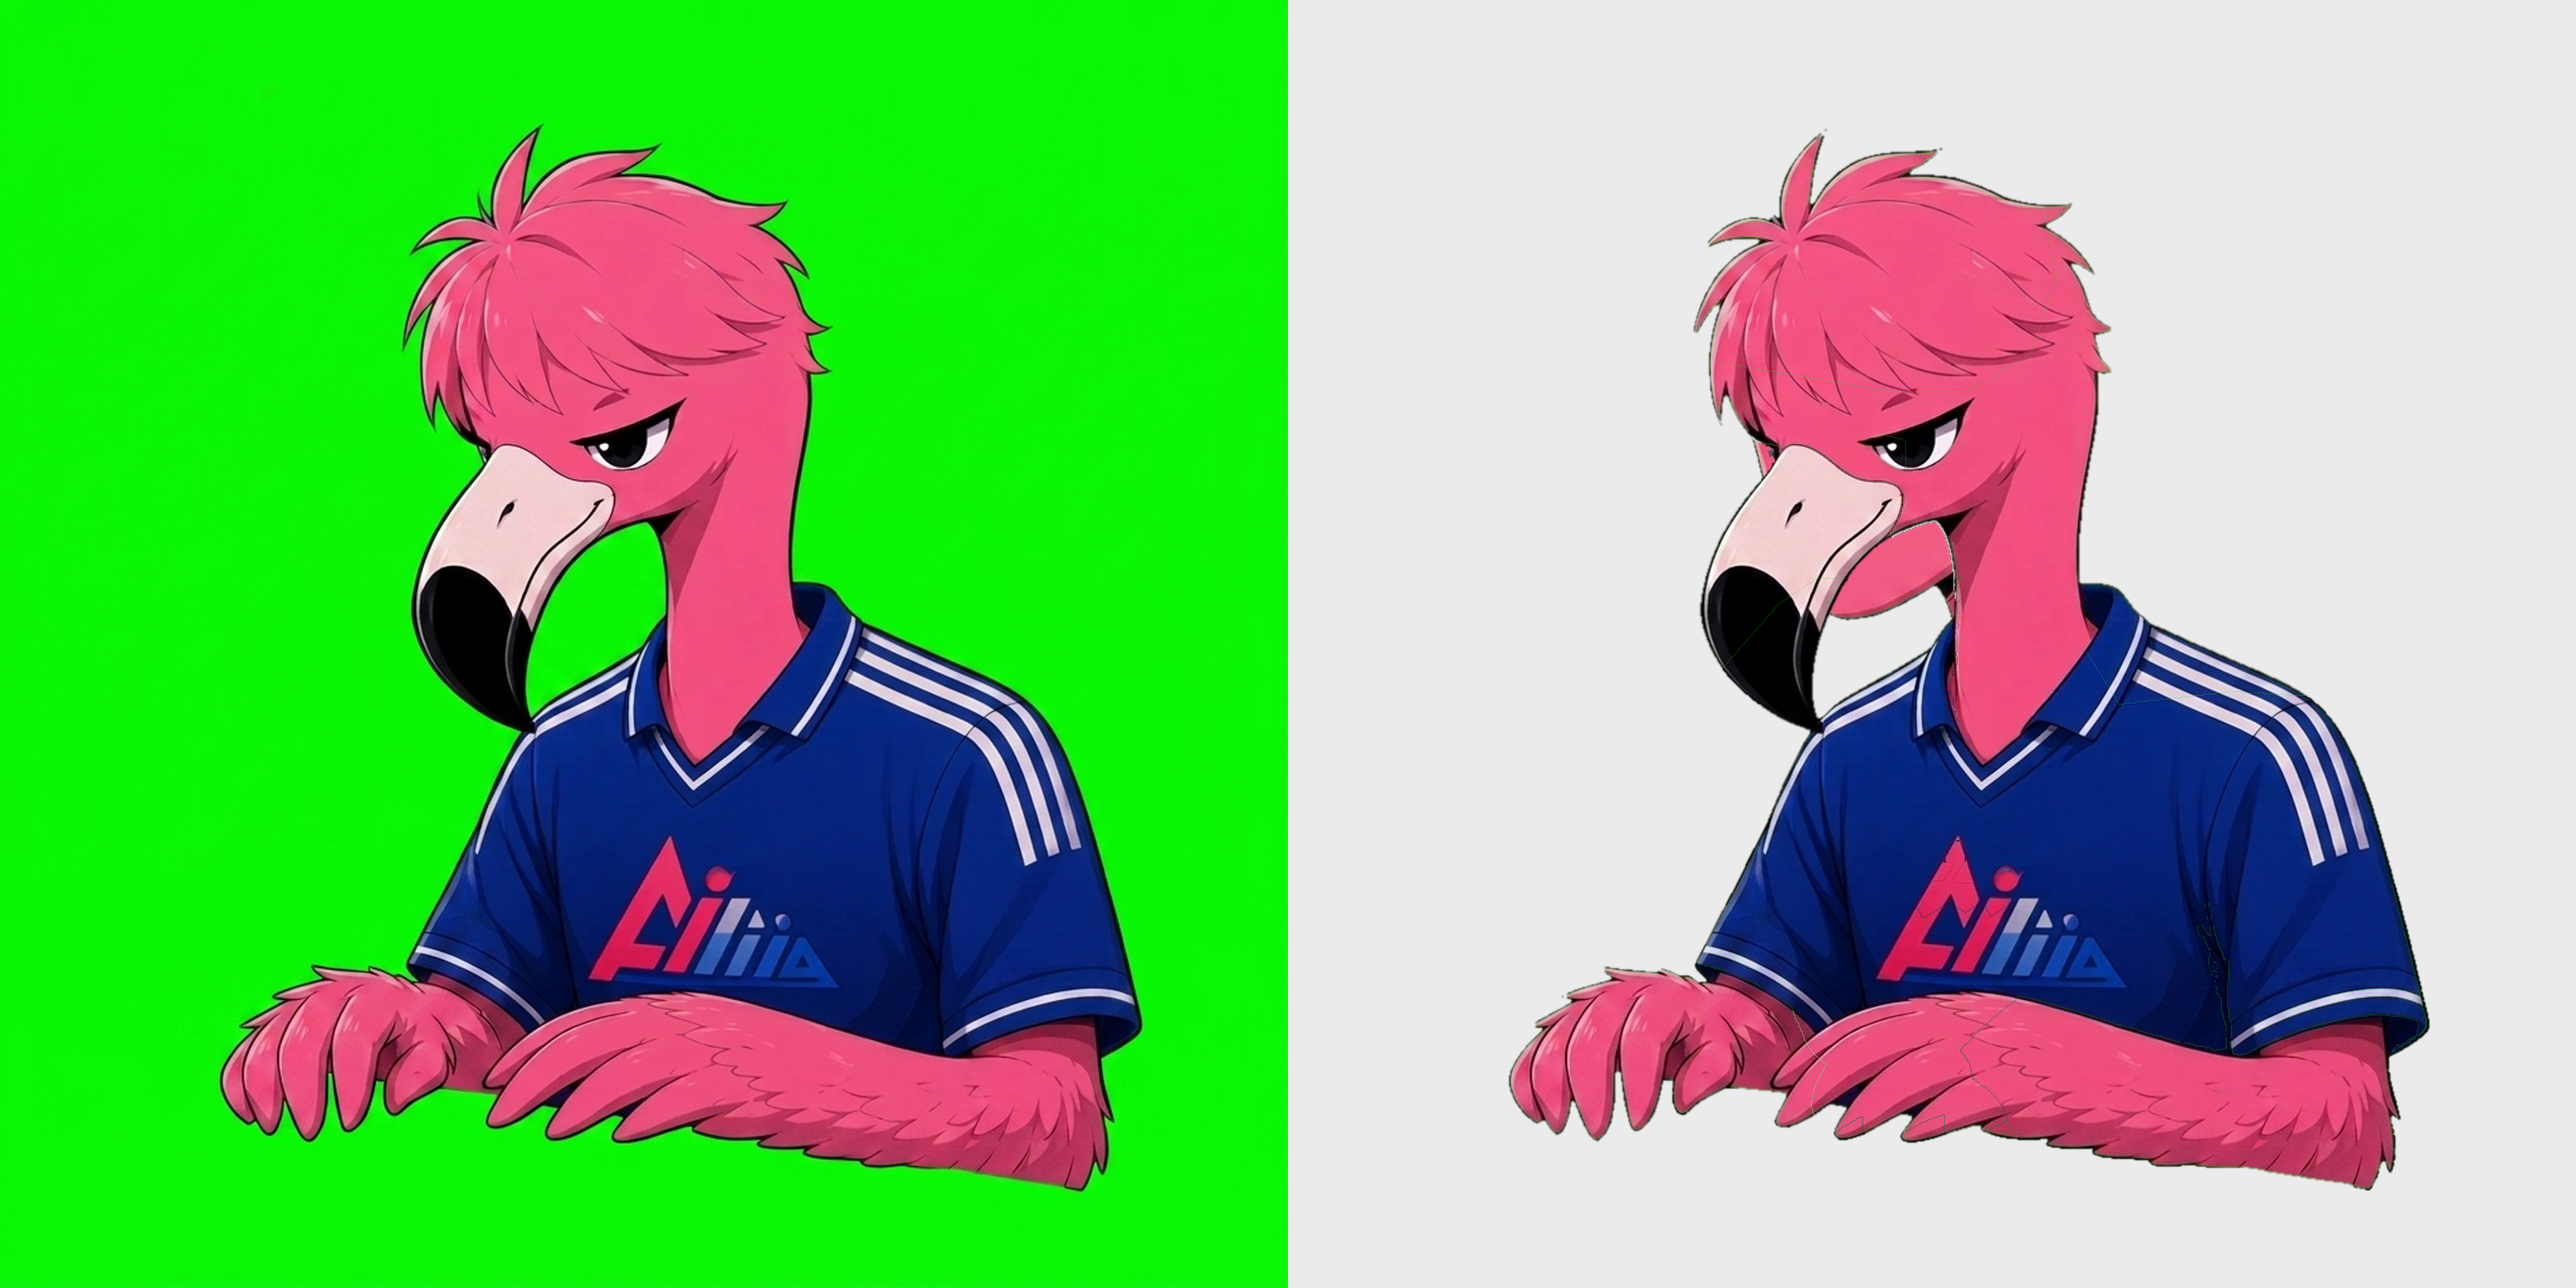
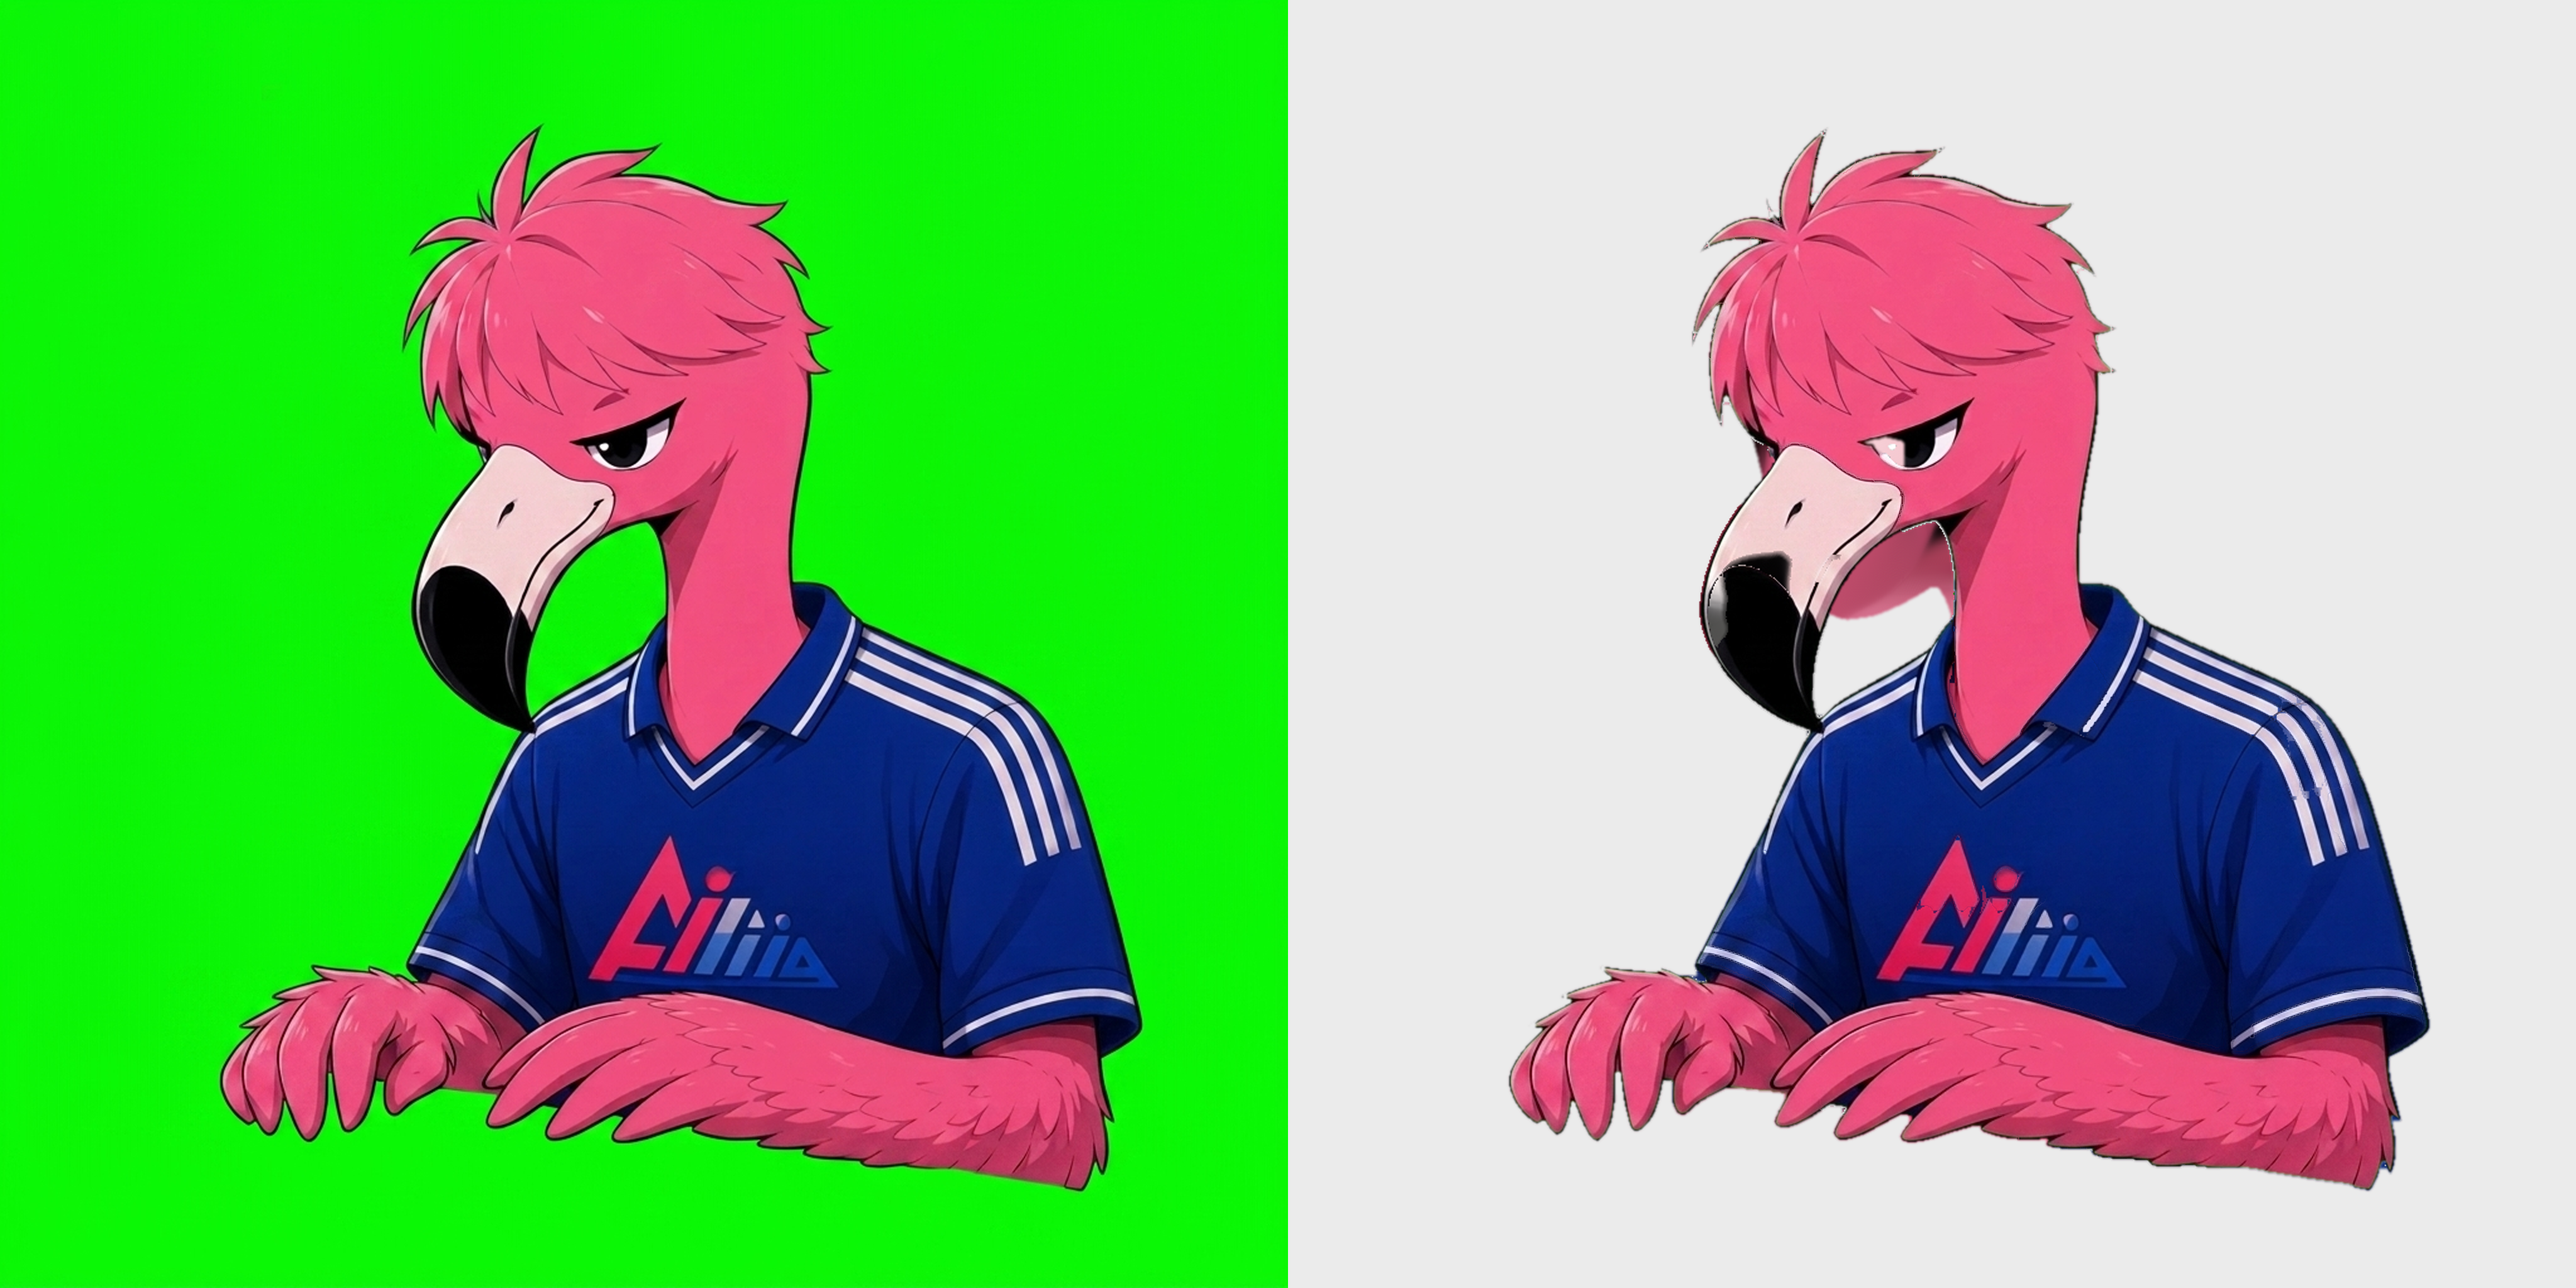
parts_v3: AI 픽셀 완전 제거 — 원본 직접 크롭 + 프로그램 인페인팅
- make_parts_v3.py: v2 AI 파츠는 영역 지도로만 사용, 픽셀은 전부 원본에서
- 배타적 픽셀 소유권: 눈·아랫부리·앞머리·팔 z-순서 강제 선점,
  머리/몸통 경계는 시드+최근접 거리 중재, 남는 픽셀(부리끝·발톱)도 최근접 귀속
- 가려진 영역은 cv2.inpaint(TELEA)로 재구성 (타 파츠·배경 인접 픽셀 소스 차단)
- 입안은 아랫부리 회전 스윕으로 합성 (talk 이미지 의존 제거)
- 레이어 순서 수정: 부리 끝이 가슴 위에 뜨는 포즈라 부리 > 몸통
- 정지 합성 residual 0px = 원본과 픽셀 일치

diff --git a/live2d/make_parts_v3.py b/live2d/make_parts_v3.py
@@ -1,0 +1,124 @@
+"""Build parts_v3: pure crops from the ORIGINAL sprite.
+
+The v2 AI parts are used ONLY as region maps (which pixel belongs to which
+part). Each original pixel is assigned to exactly ONE part (front-most part
+wins); occluded areas are reconstructed with OpenCV inpainting from the part's
+own pixels — no AI-painted pixel survives.
+"""
+import os
+import numpy as np
+import cv2
+from PIL import Image
+
+BASE = os.path.dirname(os.path.abspath(__file__))
+V2 = os.path.join(BASE, "parts_v2")
+V3 = os.path.join(BASE, "parts_v3")
+ORIGINAL = os.path.join(BASE, "..", "assets", "1_green_idle.png")
+DIFF_THRESH = 40
+
+os.makedirs(V3, exist_ok=True)
+
+def degreen(arr):
+    r, g, b = arr[:, :, 0].astype(int), arr[:, :, 1].astype(int), arr[:, :, 2].astype(int)
+    out = arr.copy()
+    out[:, :, 3] = np.where((g > 120) & (g > r + 25) & (g > b + 25), 0, arr[:, :, 3])
+    return out
+
+orig = degreen(np.array(Image.open(ORIGINAL).convert("RGBA")))
+orig_rgb = orig[:, :, :3]
+orig_alpha = orig[:, :, 3] > 0
+
+PARTS = ["upper_beak", "lower_beak", "hair_front", "left_arm", "right_arm",
+         "body_base", "head_base"]
+
+regions, claims = {}, {}
+for name in PARTS:
+    v2 = degreen(np.array(Image.open(os.path.join(V2, f"{name}.png")).convert("RGBA")))
+    region = cv2.morphologyEx((v2[:, :, 3] > 0).astype(np.uint8), cv2.MORPH_CLOSE,
+                              np.ones((5, 5), np.uint8)) > 0
+    diff = np.abs(v2[:, :, :3].astype(int) - orig_rgb.astype(int)).mean(axis=2)
+    claim = region & orig_alpha & (diff < DIFF_THRESH)
+    claim = cv2.morphologyEx(claim.astype(np.uint8), cv2.MORPH_CLOSE,
+                             np.ones((5, 5), np.uint8)) > 0
+    regions[name], claims[name] = region, claim
+
+# --- exclusive pixel ownership ---
+taken = np.zeros_like(orig_alpha)
+owned = {name: np.zeros_like(orig_alpha) for name in PARTS}
+
+# z-order forced claims: front parts own the pixels they show at rest.
+# eye first (belongs to the eye layers; head inpaints feathers behind it),
+# then lower jaw before upper_beak (whose v2 region covers the whole beak).
+eye = np.array(Image.open(os.path.join(V3, "eye_open.png")).convert("RGBA"))
+eye_region = cv2.dilate((eye[:, :, 3] > 40).astype(np.uint8), np.ones((3, 3), np.uint8)) > 0
+taken |= eye_region
+for name in ["lower_beak", "upper_beak", "hair_front", "left_arm", "right_arm"]:
+    owned[name] = claims[name] & ~taken
+    taken |= owned[name]
+
+# head/body claims are unreliable (v2 copied stray original pixels into both),
+# so only conservative seeds are trusted; every remaining original pixel is
+# then assigned to whichever part's owned area is nearest (beak tip -> beak,
+# claws -> arm, neck -> head, jersey -> body)
+r, g, b = orig_rgb[:, :, 0].astype(int), orig_rgb[:, :, 1].astype(int), orig_rgb[:, :, 2].astype(int)
+lum = r * 0.3 + g * 0.59 + b * 0.11
+jersey_color = ((b > g + 20) & (b > r)) | (lum > 185)  # navy or white stripes
+seed_head = claims["head_base"] & ~claims["body_base"] & ~taken
+seed_body = claims["body_base"] & ~claims["head_base"] & ~taken & jersey_color
+seed_head = cv2.erode(seed_head.astype(np.uint8), np.ones((5, 5), np.uint8)) > 0
+seed_body = cv2.erode(seed_body.astype(np.uint8), np.ones((5, 5), np.uint8)) > 0
+owned["head_base"], owned["body_base"] = seed_head, seed_body
+taken |= seed_head | seed_body
+
+leftover = orig_alpha & ~taken
+dist_stack = np.stack([
+    cv2.distanceTransform((~owned[n]).astype(np.uint8), cv2.DIST_L2, 3) for n in PARTS
+])
+winner = np.argmin(dist_stack, axis=0)
+for i, n in enumerate(PARTS):
+    owned[n] = owned[n] | (leftover & (winner == i))
+taken |= leftover
+
+near_bg = cv2.dilate((~orig_alpha).astype(np.uint8), np.ones((7, 7), np.uint8)) > 0
+
+parts_out = {}
+for name in PARTS:
+    visible = owned[name]
+    region = regions[name] | visible   # include pixels assigned beyond the v2 map
+    hidden = region & ~visible
+
+    # inpaint source: the part's own pixels, minus margins near other parts'
+    # pixels and near the background so foreign colors don't bleed in
+    others = taken & ~visible
+    margin = cv2.dilate(others.astype(np.uint8), np.ones((5, 5), np.uint8)) > 0
+    src_ok = visible & ~margin & ~near_bg
+    if not src_ok.any():
+        src_ok = visible
+    filled = cv2.inpaint(orig_rgb, (~src_ok).astype(np.uint8), 7, cv2.INPAINT_TELEA)
+
+    part = np.zeros_like(orig)
+    part[:, :, :3] = np.where(visible[:, :, None], orig_rgb, filled)
+    alpha = ((region).astype(np.uint8) * 255)
+    part[:, :, 3] = cv2.GaussianBlur(alpha, (3, 3), 0)
+
+    parts_out[name] = part
+    Image.fromarray(part).save(os.path.join(V3, f"{name}.png"))
+    print(f"{name}: region={int(region.sum())}px, owned={int(visible.sum())}px, "
+          f"inpainted={int(hidden.sum())}px")
+
+# mouth interior: cavity swept by the lower beak opening (no AI source exists)
+lower = parts_out["lower_beak"]
+h, w = lower.shape[:2]
+PIVOT, ANGLE = (445, 425), 27.0
+sweep = np.zeros((h, w), np.uint8)
+for a_deg in np.arange(0, ANGLE + 1, 2.0):
+    M = cv2.getRotationMatrix2D(PIVOT, -a_deg, 1.0)
+    rot = cv2.warpAffine(lower, M, (w, h), flags=cv2.INTER_LINEAR,
+                         borderMode=cv2.BORDER_CONSTANT, borderValue=(0, 0, 0, 0))
+    sweep |= (rot[:, :, 3] > 40).astype(np.uint8)
+sweep = cv2.morphologyEx(sweep, cv2.MORPH_CLOSE, np.ones((9, 9), np.uint8))
+cavity = np.zeros((h, w, 4), np.uint8)
+cavity[:, :, :3] = (142, 48, 66)
+cavity[:, :, 3] = sweep * 255
+Image.fromarray(cavity).save(os.path.join(V3, "mouth_inside.png"))
+print(f"mouth_inside: cavity={int(sweep.sum())}px (synthesized)")

diff --git a/live2d/assemble_psd.py b/live2d/assemble_psd.py
@@ -13,7 +13,7 @@ from psd_tools.api.layers import PixelLayer
 from psd_tools.constants import Compression
 
 BASE = os.path.dirname(os.path.abspath(__file__))
-PARTS_DIR = os.path.join(BASE, "parts_v2")
+PARTS_DIR = os.path.join(BASE, "parts_v3")
 OUT_PSD = os.path.join(BASE, "flamingo_live2d.psd")
 OUT_PSD_25D = os.path.join(BASE, "flamingo_anime25d.psd")  # Anime2.5DRig naming
 OUT_PREVIEW = os.path.join(BASE, "preview.png")
@@ -29,15 +29,15 @@ CANVAS = SRC * SCALE
 # AI-infilled pixels (originally hidden) are split off and pushed behind their
 # occluders so the resting composite reproduces the original exactly.
 LAYERS = [
-    "body_fill",     # AI-filled collar/chest (was hidden behind neck & wings)
+    "body_fill",     # inpainted collar/chest (was hidden behind neck & wings)
     "head_base",
     "eye_open",
     "eye_closed",
-    "mouth_inside",  # clipped to beak silhouette (comes from the open-beak pose)
-    "lower_beak",    # AI-extended part clipped to upper beak
-    "upper_beak",
+    "body_visible",  # jersey pixels exactly as seen (collar over the neck)
+    "mouth_inside",  # synthesized cavity, clipped to beak silhouette at rest
+    "lower_beak",
+    "upper_beak",    # beak tip hangs over the chest -> beaks above the body
     "hair_front",
-    "body_visible",  # jersey pixels exactly as seen in the original
     "left_arm",
     "right_arm",
 ]
@@ -223,10 +223,10 @@ def build():
         ("face",        parts["head_base"]),
         ("eyelash",     parts["eye_open"]),
         ("eye_close",   parts["eye_closed"]),
+        ("topwear",     merge(parts["body_fill"], parts["body_visible"])),
         ("mouth_open",  mouth_open),
         ("mouth_close", merge(parts["lower_beak"], parts["upper_beak"])),
         ("front hair",  parts["hair_front"]),
-        ("topwear",     merge(parts["body_fill"], parts["body_visible"])),
         ("left_arm",    parts["left_arm"]),
         ("right_arm",   parts["right_arm"]),
     ]

diff --git a/live2d/extract_eyes.py b/live2d/extract_eyes.py
@@ -12,7 +12,7 @@ from PIL import Image
 
 BASE = os.path.dirname(os.path.abspath(__file__))
 ASSETS = os.path.join(BASE, "..", "assets")
-PARTS = os.path.join(BASE, "parts_v2")
+PARTS = os.path.join(BASE, "parts_v3")
 
 # eye bounding boxes in the 1024x1024 originals (x0, y0, x1, y1)
 JOBS = [
